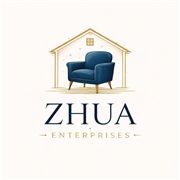
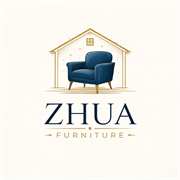
Fixed Some SEO Thing

Changed region(s): [[0.2222, 0.6944, 0.7778, 0.7778]]

diff --git a/src/app/layout.tsx b/src/app/layout.tsx
@@ -3,29 +3,63 @@ import './globals.css';
 import ClientChrome from '@/components/layout/ClientChrome';
 import AppToaster from '@/components/ui/AppToaster';
 import FdProcessedIdSanitizer from '@/components/layout/FdProcessedIdSanitizer';
+import { getCanonicalSiteUrl } from '@/lib/site-url';
+
+const canonicalSiteUrl = getCanonicalSiteUrl();
 
 export const metadata: Metadata = {
-  metadataBase: new URL(
-    process.env.NEXT_PUBLIC_SITE_URL ??
-      process.env.CANONICAL_SITE_URL ??
-      'https://www.zhuafurniture.com'
-  ),
+  metadataBase: new URL(canonicalSiteUrl),
+  applicationName: 'Zhua Furniture',
   title: {
     default: 'Zhua Furniture — Premium Furniture, Curtains & Interior Design | South Africa',
     template: '%s | Zhua Furniture',
   },
   description: "South Africa's #1 home solutions platform. Shop premium furniture, custom curtains & blinds, and professional interior design services. Delivered across all 9 provinces.",
   keywords: ['furniture South Africa', 'curtains', 'blinds', 'interior design', 'home decor', 'Johannesburg furniture', 'Cape Town curtains'],
+  manifest: '/manifest.webmanifest',
+  icons: {
+    icon: [
+      { url: '/favicon.ico?v=20260415', sizes: 'any' },
+      { url: '/icon.png?v=20260415', type: 'image/png' },
+    ],
+    shortcut: [{ url: '/icon.png?v=20260415', type: 'image/png' }],
+    apple: [{ url: '/apple-icon.png?v=20260415', type: 'image/png' }],
+  },
   alternates: {
     canonical: '/',
   },
+  robots: {
+    index: true,
+    follow: true,
+    googleBot: {
+      index: true,
+      follow: true,
+      'max-image-preview': 'large',
+      'max-snippet': -1,
+      'max-video-preview': -1,
+    },
+  },
   openGraph: {
-    title: 'Zhua Furniture — Premium Home Solutions',
-    description: "South Africa's #1 home solutions platform",
+    title: 'Zhua Furniture — Premium Furniture, Curtains & Interior Design',
+    description: "South Africa's #1 home solutions platform. Premium furniture, custom curtains, and expert interior design.",
     type: 'website',
     locale: 'en_ZA',
     url: '/',
     siteName: 'Zhua Furniture',
+    images: [
+      {
+        url: '/logo.jpg',
+        width: 1024,
+        height: 1024,
+        alt: 'Zhua Furniture logo',
+      },
+    ],
+  },
+  twitter: {
+    card: 'summary_large_image',
+    title: 'Zhua Furniture — Premium Furniture, Curtains & Interior Design',
+    description: "South Africa's #1 home solutions platform. Premium furniture, custom curtains, and expert interior design.",
+    images: ['/logo.jpg'],
   },
 };
 

diff --git a/src/components/layout/Footer.tsx b/src/components/layout/Footer.tsx
@@ -81,7 +81,7 @@ export default function Footer() {
               <Link href="/" className={styles.logo}>
                 <Image
                   src="/logo.jpg"
-                  alt="Zhua Enterprises"
+                  alt="Zhua Furniture"
                   width={220}
                   height={220}
                   className={styles.logoImage}
@@ -143,8 +143,8 @@ export default function Footer() {
                 <a href={`tel:${WHATSAPP_TEL}`} className={styles.contactItem}>
                   <Phone size={14} /> {WHATSAPP_DISPLAY_NUMBER}
                 </a>
-                <a href="mailto:hello@zhuaenterprises.co.za" className={styles.contactItem}>
-                  <Mail size={14} /> hello@zhuaenterprises.co.za
+                <a href="mailto:zhuaenterprise@gmail.com" className={styles.contactItem}>
+                  <Mail size={14} /> zhuaenterprise@gmail.com
                 </a>
                 <span className={styles.contactItem}>
                   <MapPin size={14} /> Johannesburg, South Africa
@@ -160,7 +160,7 @@ export default function Footer() {
         <div className="container">
           <div className={styles.bottomInner}>
             <p className={styles.copyright}>
-              &copy; {new Date().getFullYear()} Zhua Enterprises. All rights reserved.
+              &copy; {new Date().getFullYear()} Zhua Furniture. All rights reserved.
             </p>
             <div className={styles.paymentBadges}>
               {['PayFast', 'Yoco', 'Payflex', 'Visa', 'Mastercard'].map((p) => (

diff --git a/src/app/about/page.tsx b/src/app/about/page.tsx
@@ -2,10 +2,10 @@ export default function AboutPage() {
   return (
     <div style={{ padding: '140px 0 6rem', minHeight: '100vh', background: 'var(--midnight)' }}>
       <div className="container" style={{ maxWidth: '900px' }}>
-        <span className="label-accent">About Zhua Enterprises</span>
+        <span className="label-accent">About Zhua Furniture</span>
         <h1 className="heading-xl" style={{ color: '#EAF0F8', margin: '1rem 0 1.25rem' }}>South Africa&apos;s Premium Home Solutions Platform</h1>
         <p style={{ color: '#A9B7C9', fontSize: '1.02rem', lineHeight: 1.8, marginBottom: '2rem' }}>
-          Zhua Enterprises was built to make premium home transformations accessible across all 9 provinces. We combine curated furniture, custom curtains and blinds, and design-led services to help you create spaces that feel timeless, intentional, and deeply personal.
+          Zhua Furniture was built to make premium home transformations accessible across all 9 provinces. We combine curated furniture, custom curtains and blinds, and design-led services to help you create spaces that feel timeless, intentional, and deeply personal.
         </p>
 
         <div style={{ display: 'grid', gap: '1rem', gridTemplateColumns: 'repeat(auto-fit, minmax(220px, 1fr))', marginBottom: '2rem' }}>

diff --git a/src/app/api/admin/settings/route.ts b/src/app/api/admin/settings/route.ts
@@ -25,8 +25,8 @@ export async function GET() {
   return NextResponse.json({
     settings: data ?? {
       id: 'default',
-      store_name: 'Zhua Enterprises',
-      support_email: 'hello@zhuaenterprises.co.za',
+      store_name: 'Zhua Furniture',
+      support_email: 'zhuaenterprise@gmail.com',
       currency: 'ZAR',
       order_prefix: 'ZE-2026',
       automation: {
@@ -59,8 +59,8 @@ export async function PATCH(request: Request) {
     .upsert(
       {
         id: 'default',
-        store_name: String(payload.storeName ?? 'Zhua Enterprises'),
-        support_email: String(payload.supportEmail ?? 'hello@zhuaenterprises.co.za'),
+        store_name: String(payload.storeName ?? 'Zhua Furniture'),
+        support_email: String(payload.supportEmail ?? 'zhuaenterprise@gmail.com'),
         currency: String(payload.currency ?? 'ZAR'),
         order_prefix: String(payload.orderPrefix ?? 'ZE-2026'),
         automation: (payload.automation ?? {

diff --git a/src/app/manifest.ts b/src/app/manifest.ts
@@ -1,0 +1,32 @@
+import type { MetadataRoute } from 'next';
+
+export default function manifest(): MetadataRoute.Manifest {
+  return {
+    name: 'Zhua Furniture',
+    short_name: 'Zhua Furniture',
+    description:
+      "South Africa's #1 home solutions platform. Shop premium furniture, custom curtains & blinds, and interior design services.",
+    start_url: '/',
+    scope: '/',
+    display: 'standalone',
+    background_color: '#f8f8f8',
+    theme_color: '#0f2340',
+    icons: [
+      {
+        src: '/icon.png',
+        sizes: '512x512',
+        type: 'image/png',
+      },
+      {
+        src: '/apple-icon.png',
+        sizes: '180x180',
+        type: 'image/png',
+      },
+      {
+        src: '/favicon.ico',
+        sizes: 'any',
+        type: 'image/x-icon',
+      },
+    ],
+  };
+}

diff --git a/src/app/admin/settings/page.tsx b/src/app/admin/settings/page.tsx
@@ -124,11 +124,11 @@ export default function SettingsAdminPage() {
         <div className={styles.formGrid}>
           <div className={styles.formRow}>
             <label className={styles.label}>Store Name</label>
-            <input className={styles.input} defaultValue="Zhua Enterprises" />
+            <input className={styles.input} defaultValue="Zhua Furniture" />
           </div>
           <div className={styles.formRow}>
             <label className={styles.label}>Support Email</label>
-            <input className={styles.input} defaultValue="hello@zhuaenterprises.co.za" />
+            <input className={styles.input} defaultValue="zhuaenterprise@gmail.com" />
           </div>
           <div className={styles.formRow}>
             <label className={styles.label}>Default Currency</label>

diff --git a/src/app/sitemap.ts b/src/app/sitemap.ts
@@ -1,0 +1,29 @@
+import type { MetadataRoute } from 'next';
+import { getCanonicalSiteUrl } from '@/lib/site-url';
+
+const canonicalSiteUrl = getCanonicalSiteUrl();
+
+const publicPaths = [
+  '/',
+  '/about',
+  '/shop',
+  '/gallery',
+  '/design-studio',
+  '/book-installation',
+  '/contact',
+  '/track-order',
+  '/marketplace',
+  '/policies',
+  '/reviews',
+] as const;
+
+export default function sitemap(): MetadataRoute.Sitemap {
+  const now = new Date();
+
+  return publicPaths.map((path, index) => ({
+    url: `${canonicalSiteUrl}${path}`,
+    lastModified: now,
+    changeFrequency: index === 0 ? 'daily' : 'weekly',
+    priority: index === 0 ? 1 : 0.7,
+  }));
+}

diff --git a/src/components/layout/Navbar.tsx b/src/components/layout/Navbar.tsx
@@ -118,7 +118,7 @@ export default function Navbar() {
           <Link href="/" className={styles.logo}>
             <Image
               src="/logo.jpg"
-              alt="Zhua Enterprises"
+              alt="Zhua Furniture"
               width={180}
               height={180}
               priority
@@ -201,7 +201,7 @@ export default function Navbar() {
               <Link href="/" className={styles.logo}>
                 <Image
                   src="/logo.jpg"
-                  alt="Zhua Enterprises"
+                  alt="Zhua Furniture"
                   width={160}
                   height={160}
                   className={styles.mobileLogoImage}

diff --git a/src/app/contact/page.tsx b/src/app/contact/page.tsx
@@ -104,7 +104,7 @@ export default function ContactPage() {
           <aside style={{ display: 'grid', gap: '0.8rem' }}>
             {[
               { icon: Phone, title: 'Phone', value: WHATSAPP_DISPLAY_NUMBER },
-              { icon: Mail, title: 'Email', value: 'hello@zhuaenterprises.co.za' },
+              { icon: Mail, title: 'Email', value: 'zhuaenterprise@gmail.com' },
               { icon: MapPin, title: 'Location', value: 'Johannesburg, South Africa' },
             ].map(({ icon: Icon, title, value }) => (
               <div key={title} style={{ background: '#163250', border: '1px solid rgba(255,255,255,0.08)', borderRadius: 14, padding: '1rem' }}>

diff --git a/src/components/admin/AdminOverviewAutoRefresh.tsx b/src/components/admin/AdminOverviewAutoRefresh.tsx
@@ -18,7 +18,7 @@ function formatLastUpdated(value: Date): string {
 export default function AdminOverviewAutoRefresh() {
   const router = useRouter();
   const [enabled, setEnabled] = useState(true);
-  const [lastUpdated, setLastUpdated] = useState<Date | null>(null);
+  const [lastUpdated, setLastUpdated] = useState<Date>(() => new Date());
 
   const label = useMemo(() => {
     if (!lastUpdated) {
@@ -27,10 +27,6 @@ export default function AdminOverviewAutoRefresh() {
 
     return formatLastUpdated(lastUpdated);
   }, [lastUpdated]);
-
-  useEffect(() => {
-    setLastUpdated(new Date());
-  }, []);
 
   useEffect(() => {
     const handleVisibility = () => {

diff --git a/src/app/api/admin/delivery/route.ts b/src/app/api/admin/delivery/route.ts
@@ -196,8 +196,8 @@ export async function PATCH(request: Request) {
       .upsert(
         {
           id: 'default',
-          store_name: existingSettings?.store_name ?? 'Zhua Enterprises',
-          support_email: existingSettings?.support_email ?? 'hello@zhuaenterprises.co.za',
+          store_name: existingSettings?.store_name ?? 'Zhua Furniture',
+          support_email: existingSettings?.support_email ?? 'zhuaenterprise@gmail.com',
           currency: existingSettings?.currency ?? 'ZAR',
           order_prefix: existingSettings?.order_prefix ?? `ZE-${new Date().getFullYear()}`,
           automation:

diff --git a/src/app/globals.css b/src/app/globals.css
@@ -1,8 +1,8 @@
 @import url('https://fonts.googleapis.com/css2?family=Playfair+Display:ital,wght@0,400;0,500;0,600;0,700;0,800;1,400;1,600&family=Inter:wght@300;400;500;600;700&family=Outfit:wght@300;400;500;600;700&display=swap');
 
 /* ============================================================
-   ZHUA ENTERPRISES — GLOBAL DESIGN SYSTEM
-   ============================================================ */
+  ZHUA FURNITURE — GLOBAL DESIGN SYSTEM
+  ============================================================ */
 
 :root {
   /* — Color Tokens — */
